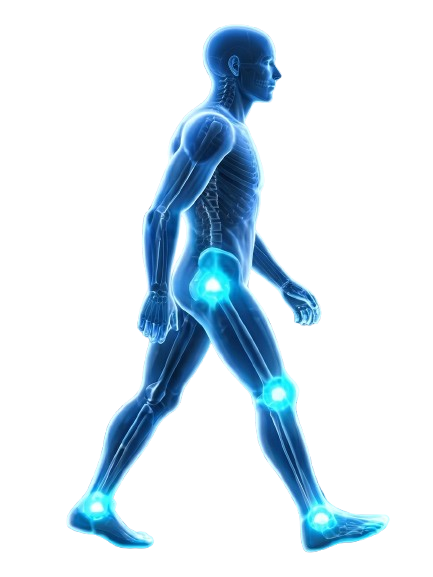
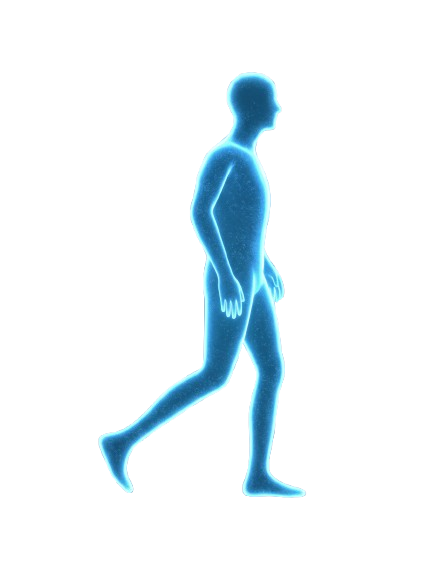
Update gait phase images: Step2/Step3 reuse with zoom and shift, refreshed Step images

Changed region(s): [[0.1505, 0.0312, 0.9028, 0.9671]]

diff --git a/components/gait/GaitAnalysis.tsx b/components/gait/GaitAnalysis.tsx
@@ -15,18 +15,23 @@ import { GAIT_PHASES, gaitCurveRows, getLatestSession, jointAnglesAt, phaseAt } 
 
 /**
  * Supplied pose artwork per gait phase (public/images). Each picture is static and is used only for the phase it depicts best:
- * Step1 wide stride, front heel on the ground; Step2 single support, one leg lifted; Step3 trailing heel rising (used for Loading and Terminal Stance);
- * Step4 rear leg lifted and bent (used for Swing); gait-phase-preswing rear foot at toe-off. The Walking Model shows the picture of the selected phase.
+ * Step1 wide stride, front heel on the ground; Step2 single support, one leg lifted; Step3 trailing heel rising (used for Loading, Swing and Terminal Stance);
+ * Step4 rear leg lifted and bent (unused now); gait-phase-preswing rear foot at toe-off. The Walking Model shows the picture of the selected phase.
  */
 const PHASE_IMAGE: Partial<Record<string, { src: string; note: string }>> = {
   "heel-strike": { src: "/images/Step1.png", note: "supplied illustration" },
   loading: { src: "/images/Step3.jpg", note: "supplied illustration" },
-  "mid-stance": { src: "/images/Step2.jpg", note: "supplied illustration" },
+  "mid-stance": { src: "/images/Step2.png", note: "supplied illustration" },
   "terminal-stance": { src: "/images/Step3.jpg", note: "supplied illustration" },
-  "pre-swing": { src: "/images/gait-phase-preswing.webp", note: "supplied illustration" },
-  swing: { src: "/images/Step4.jpg", note: "supplied illustration" },
+  "pre-swing": { src: "/images/Step2.png", note: "supplied illustration" },
+  swing: { src: "/images/Step3.jpg", note: "supplied illustration" },
   "heel-strike-2": { src: "/images/Step1.png", note: "supplied illustration" },
 };
+
+/** Extra zoom for pictures with a lot of empty margin, so the figure fills more of its box (still inside it). */
+const PHASE_ZOOM: Partial<Record<string, number>> = { loading: 1.5, "pre-swing": 1.15, swing: 1.3 };
+/** Sideways nudge (percent of the picture width) so a reused picture sits differently from its twin. */
+const PHASE_SHIFT: Partial<Record<string, number>> = { swing: 8 };
 
 function EmptyState({ onLatest, label, canSwitch }: { onLatest: () => void; label: string; canSwitch: boolean }) {
   return (
@@ -131,7 +136,7 @@ function DemoGaitAnalysis() {
         <div className="xl:col-span-3">
           <Panel id="figure" title="Walking Model" icon="walk" className="h-full">
             <div className="flex flex-1 flex-col gap-2">
-              <PhotoPose key={phase.key} src={PHASE_IMAGE[phase.key]?.src ?? ""} alt={`${phase.label} pose at ${p} percent of the cycle (supplied illustration)`} className="mx-auto h-[22rem] w-full max-w-[260px]"
+              <PhotoPose key={phase.key} zoom={PHASE_ZOOM[phase.key]} shiftX={PHASE_SHIFT[phase.key]} src={PHASE_IMAGE[phase.key]?.src ?? ""} alt={`${phase.label} pose at ${p} percent of the cycle (supplied illustration)`} className="mx-auto h-[22rem] w-full max-w-[260px]"
                 fallback={<WalkingFigure p={p} scale={g.curveScale} className="mx-auto h-[22rem] w-full max-w-[220px]" ariaLabel={`Walking figure, ${phase.label} at ${p} percent of the cycle`} />} />
               <div className="rounded-md border border-cyan-400/30 bg-black/30 p-2" aria-live="polite">
                 <p className="flex items-center justify-between text-sm font-semibold text-white">
@@ -248,7 +253,7 @@ function DemoGaitAnalysis() {
                     className={`flex flex-col items-center rounded-md border p-1 ${active ? "border-cyan-300 bg-cyan-400/15" : "border-cyan-400/20 hover:bg-white/5"}`}>
                     {PHASE_IMAGE[ph.key] ? (
                       // Supplied walking-pose artwork, matched to the phase it shows best (see PHASE_IMAGE). Falls back to the drawn figure if a file is missing.
-                      <PhotoPose src={PHASE_IMAGE[ph.key]!.src} alt={`${ph.label} pose (${PHASE_IMAGE[ph.key]!.note})`} className="h-24 w-full"
+                      <PhotoPose zoom={PHASE_ZOOM[ph.key]} shiftX={PHASE_SHIFT[ph.key]} src={PHASE_IMAGE[ph.key]!.src} alt={`${ph.label} pose (${PHASE_IMAGE[ph.key]!.note})`} className="h-24 w-full"
                         fallback={<WalkingFigure p={ph.p} scale={g.curveScale} glow={false} className="h-24 w-full" ariaLabel={`${ph.label} pose`} />} />
                     ) : (
                       <WalkingFigure p={ph.p} scale={g.curveScale} glow={false} className="h-24 w-full" ariaLabel={`${ph.label} pose`} />

diff --git a/components/graphics/PhotoPose.tsx b/components/graphics/PhotoPose.tsx
@@ -7,12 +7,12 @@ import type { ReactNode } from "react";
  * Supplied pose artwork with a fallback. If the file fails to load, `fallback` (the drawn figure) is shown instead.
  * The picture is static: it never claims to follow the scrubber, so it is only used for the phase it actually depicts.
  */
-export default function PhotoPose({ src, alt, className = "", fallback, blend = true }: { src: string; alt: string; className?: string; fallback: ReactNode; blend?: boolean }) {
+export default function PhotoPose({ src, alt, className = "", fallback, blend = true, zoom = 1, shiftX = 0 }: { src: string; alt: string; className?: string; fallback: ReactNode; blend?: boolean; zoom?: number; shiftX?: number }) {
   const [failed, setFailed] = useState(false);
   if (failed) return <>{fallback}</>;
   return (
     // eslint-disable-next-line @next/next/no-img-element
-    <img src={src} alt={alt} className={`object-contain ${className}`} style={blend ? { mixBlendMode: "screen" } : undefined} draggable={false}
+    <img src={src} alt={alt} className={`object-contain ${className}`} style={{ ...(blend ? { mixBlendMode: "screen" as const } : null), ...(zoom !== 1 || shiftX !== 0 ? { transform: `translateX(${shiftX}%) scale(${zoom})` } : null) }} draggable={false}
       onError={() => setFailed(true)} ref={(el) => { if (el && el.complete && el.naturalWidth === 0) queueMicrotask(() => setFailed(true)); }} />
   );
 }
